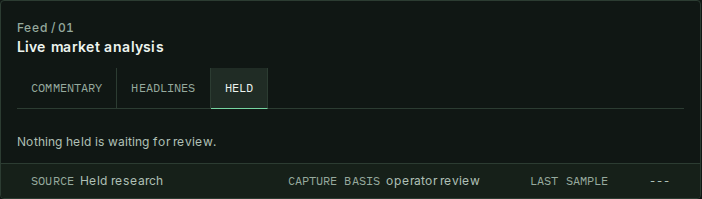
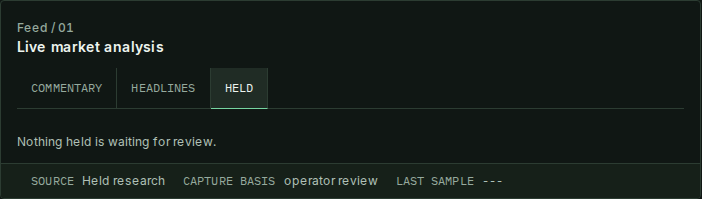
fix(ui): pack Held rail chips without source grow
flex: 1 on SOURCE stretched leftover space into a wide hole after the
value. Shrink-only (flex: 0 1 auto) keeps even 18px chip gaps; source
still ellipsizes when the row is tight. Restamp the held-out e2e ledger.

docs-skip: CSS-only feed-rail follow-up; ledger stamp is the owner contract

Changed region(s): [[0.0897, 0.8744, 0.7179, 0.9347], [0.7479, 0.8744, 0.8675, 0.9347], [0.9274, 0.9045, 0.9573, 0.9347]]

diff --git a/web/e2e/dashboard-feed-tabs.spec.ts b/web/e2e/dashboard-feed-tabs.spec.ts
@@ -124,6 +124,8 @@ test.describe("dashboard feed tabs", () => {
       const gap2 = itemBoxes[2].x - (itemBoxes[1].x + itemBoxes[1].width);
       expect(gap1).toBeGreaterThan(0);
       expect(Math.abs(gap1 - gap2)).toBeLessThanOrEqual(2);
+      const sourceValueBox = (await sourceValue.boundingBox())!;
+      expect(itemBoxes[1].x - (sourceValueBox.x + sourceValueBox.width)).toBeLessThanOrEqual(24);
     }
   });
 
@@ -176,6 +178,8 @@ test.describe("dashboard feed tabs", () => {
     const gap1 = itemBoxes[1].x - (itemBoxes[0].x + itemBoxes[0].width);
     const gap2 = itemBoxes[2].x - (itemBoxes[1].x + itemBoxes[1].width);
     expect(Math.abs(gap1 - gap2)).toBeLessThanOrEqual(2);
+    const sourceValueBox = (await rail.locator('[data-k="source"] .v').boundingBox())!;
+    expect(itemBoxes[1].x - (sourceValueBox.x + sourceValueBox.width)).toBeLessThanOrEqual(24);
 
     await page.setViewportSize({ width: 1024, height: 768 });
     await rail.scrollIntoViewIfNeeded();

diff --git a/web/tests/skill-stack-shell-chrome.test.ts b/web/tests/skill-stack-shell-chrome.test.ts
@@ -95,6 +95,7 @@ describe("skill-stack shell chrome", () => {
     expect(nextBlock).toBeGreaterThan(feedRail);
     const chunk = css.slice(feedRail, nextBlock);
     expect(chunk).toContain("display: flex");
+    expect(chunk).toContain("flex: 0 1 auto");
     expect(chunk).toContain("white-space: nowrap");
     expect(chunk).toContain("tabular-nums");
     expect(chunk).toContain("border-radius: 0 0 3px 3px");

diff --git a/web/app/globals.css b/web/app/globals.css
@@ -4690,7 +4690,7 @@ td.last-price-cell {
 }
 
 .dashboard-news .dashboard-news__rail .panel-meta-rail-item[data-k="source"] {
-  flex: 1 1 auto;
+  flex: 0 1 auto;
   min-width: 0;
 }
 
